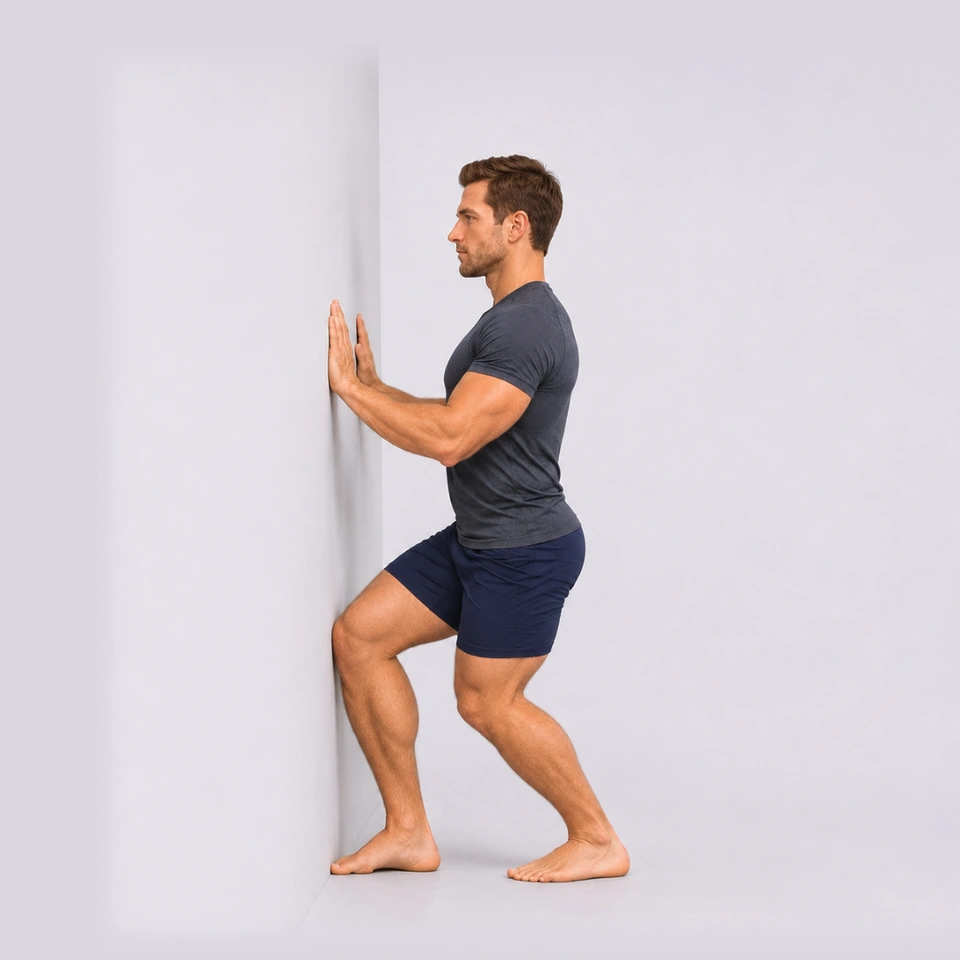
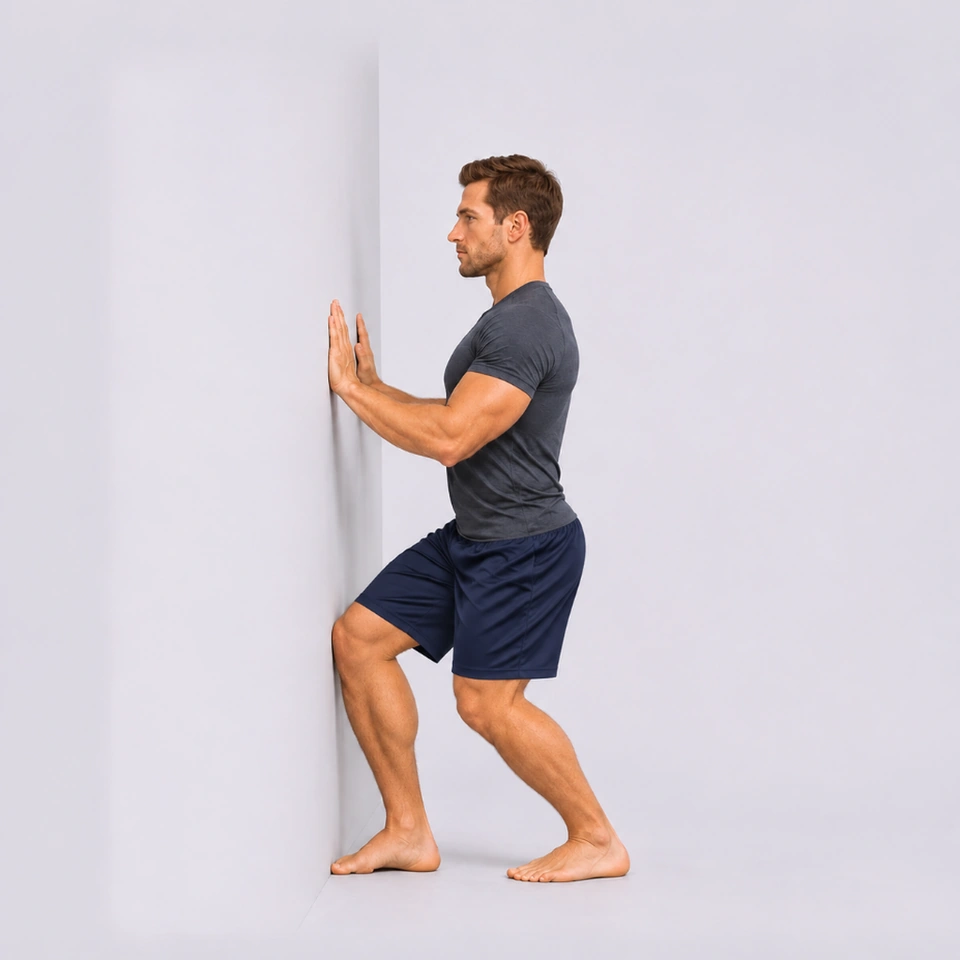
Publish: the man's longer shorts, batch 1 (10 pictures, offline version 0d8c510874da)
Claude-Session: https://claude.ai/code/session_01VNuq4d9RwdVpz2hhqNG4nu

Changed region(s): [[0.375, 0.5312, 0.625, 0.75], [0.4375, 0.5312, 0.4688, 0.5625]]

diff --git a/meflex-site/meflex-site/sw.js b/meflex-site/meflex-site/sw.js
@@ -5,7 +5,7 @@
 // those go to the network exactly as without it. It sends nothing of its own except fetching FILES from the site.
 // It never stores personal data: history, routines, settings and answers live in the page's own storage, not here.
 // A new version waits until the person taps Reload ("A new version is ready"); it never takes over by itself.
-const VERSION = '1d963bf63757';
+const VERSION = '0d8c510874da';
 const FILES = ["index.html", "manifest.webmanifest", "apple-touch-icon.png", "icon-192.png", "icon-512.png"];
 // Nov 15 (recorded voice on the website): every recording the page may ask for (voice/manifest.json and voice/<key>.m4a).
 // None is fetched at install (4.2 MB). Each is kept the first time the page fetches it: the list when the Voice or coach
@@ -15,7 +15,7 @@ const VOICE = ["voice/manifest.json", "voice/001278fc.m4a", "voice/0012bbdf.m4a"
 // fetched at install (that could be many megabytes). Each one is kept the first time the page shows it, and the page
 // asks for a routine's player pictures when that routine is opened, so a routine started with a signal still has them
 // with none. They live in their own cache, which survives app updates; only pictures no longer listed are removed.
-const PICS = ["figures/ankledf-192.webp?v=2fbe904b", "figures/ankledf-640.webp?v=2fbe904b", "figures/ankledf-960.webp?v=2fbe904b", "figures/anklerock-192.webp?v=cd11ad1b", "figures/anklerock-640.webp?v=cd11ad1b", "figures/anklerock-960.webp?v=cd11ad1b", "figures/armcircles-192.webp?v=4655a5b3", "figures/armcircles-640.webp?v=4655a5b3", "figures/armcircles-960.webp?v=4655a5b3", "figures/bandadd-192.webp?v=7cb4ad47", "figures/bandadd-640.webp?v=7cb4ad47", "figures/bandadd-960.webp?v=7cb4ad47", "figures/bandcalf-192.webp?v=a96d5053", "figures/bandcalf-640.webp?v=a96d5053", "figures/bandcalf-960.webp?v=a96d5053", "figures/bandchest-192.webp?v=093ec867", "figures/bandchest-640.webp?v=093ec867", "figures/bandchest-960.webp?v=093ec867", "figures/bandcross-192.webp?v=690bf78d", "figures/bandcross-640.webp?v=690bf78d", "figures/bandcross-960.webp?v=690bf78d", "figures/bandham-192.webp?v=cc7fd8df", "figures/bandham-640.webp?v=cc7fd8df", "figures/bandham-960.webp?v=cc7fd8df", "figures/bandlat-192.webp?v=af0c8982", "figures/bandlat-640.webp?v=af0c8982", "figures/bandlat-960.webp?v=af0c8982", "figures/bandquad-192.webp?v=407bae69", "figures/bandquad-640.webp?v=407bae69", "figures/bandquad-960.webp?v=407bae69", "figures/butterfly-192.webp?v=ed941436", "figures/butterfly-640.webp?v=ed941436", "figures/butterfly-960.webp?v=ed941436", "figures/buttkicks-192.webp?v=08e6effa", "figures/buttkicks-640.webp?v=08e6effa", "figures/buttkicks-960.webp?v=08e6effa", "figures/calf-192.webp?v=0a14d5c0", "figures/calf-640.webp?v=0a14d5c0", "figures/calf-960.webp?v=0a14d5c0", "figures/calfdrop-192.webp?v=97c87646", "figures/calfdrop-640.webp?v=97c87646", "figures/calfdrop-960.webp?v=97c87646", "figures/catcow-192.webp?v=0cbc84a2", "figures/catcow-640.webp?v=0cbc84a2", "figures/catcow-960.webp?v=0cbc84a2", "figures/chairfig4-192.webp?v=3156b617", "figures/chairfig4-640.webp?v=3156b617", "figures/chairfig4-960.webp?v=3156b617", "figures/chairham-192.webp?v=79f2fa67", "figures/chairham-640.webp?v=79f2fa67", "figures/chairham-960.webp?v=79f2fa67", "figures/chestclasp-192.webp?v=1909fb8b", "figures/chestclasp-640.webp?v=1909fb8b", "figures/chestclasp-960.webp?v=1909fb8b", "figures/child-192.webp?v=e30eb409", "figures/child-640.webp?v=e30eb409", "figures/child-960.webp?v=e30eb409", "figures/chintuck-192.webp?v=a55b103f", "figures/chintuck-640.webp?v=a55b103f", "figures/chintuck-960.webp?v=a55b103f", "figures/cobra-192.webp?v=3b105fed", "figures/cobra-640.webp?v=3b105fed", "figures/cobra-960.webp?v=3b105fed", "figures/cossack-192.webp?v=711ddeef", "figures/cossack-640.webp?v=711ddeef", "figures/cossack-960.webp?v=711ddeef", "figures/couch-192.webp?v=45f44fa8", "figures/couch-640.webp?v=45f44fa8", "figures/couch-960.webp?v=45f44fa8", "figures/crossbody-192.webp?v=5f496ae8", "figures/crossbody-640.webp?v=5f496ae8", "figures/crossbody-960.webp?v=5f496ae8", "figures/dbfly-192.webp?v=10563170", "figures/dbfly-640.webp?v=10563170", "figures/dbfly-960.webp?v=10563170", "figures/doorway-192.webp?v=d289783c", "figures/doorway-640.webp?v=d289783c", "figures/doorway-960.webp?v=d289783c", "figures/downdog-192.webp?v=3109fa5a", "figures/downdog-640.webp?v=3109fa5a", "figures/downdog-960.webp?v=3109fa5a", "figures/figure4-192.webp?v=75c67c42", "figures/figure4-640.webp?v=75c67c42", "figures/figure4-960.webp?v=75c67c42", "figures/fold-192.webp?v=9a4d92d0", "figures/fold-640.webp?v=9a4d92d0", "figures/fold-960.webp?v=9a4d92d0", "figures/frog-192.webp?v=bf22872d", "figures/frog-640.webp?v=bf22872d", "figures/frog-960.webp?v=bf22872d", "figures/gate-192.webp?v=dd91927a", "figures/gate-640.webp?v=dd91927a", "figures/gate-960.webp?v=dd91927a", "figures/goblet-192.webp?v=47dedac9", "figures/goblet-640.webp?v=47dedac9", "figures/goblet-960.webp?v=47dedac9", "figures/groinhold-192.webp?v=d1287163", "figures/groinhold-640.webp?v=d1287163", "figures/groinhold-960.webp?v=d1287163", "figures/halfsplit-192.webp?v=f27b0572", "figures/halfsplit-640.webp?v=f27b0572", "figures/halfsplit-960.webp?v=f27b0572", "figures/happybaby-192.webp?v=d1ab1006", "figures/happybaby-640.webp?v=d1ab1006", "figures/happybaby-960.webp?v=d1ab1006", "figures/highknees-192.webp?v=a209c5df", "figures/highknees-640.webp?v=a209c5df", "figures/highknees-960.webp?v=a209c5df", "figures/hiplunge-192.webp?v=2f89a04e", "figures/hiplunge-640.webp?v=2f89a04e", "figures/hiplunge-960.webp?v=2f89a04e", "figures/inchworm-192.webp?v=344036cf", "figures/inchworm-640.webp?v=344036cf", "figures/inchworm-960.webp?v=344036cf", "figures/kneeschest-192.webp?v=b5d6dc38", "figures/kneeschest-640.webp?v=b5d6dc38", "figures/kneeschest-960.webp?v=b5d6dc38", "figures/lateral-192.webp?v=25f04159", "figures/lateral-640.webp?v=25f04159", "figures/lateral-960.webp?v=25f04159", "figures/legswing-192.webp?v=65e67a84", "figures/legswing-640.webp?v=65e67a84", "figures/legswing-960.webp?v=65e67a84", "figures/levator-192.webp?v=8760091f", "figures/levator-640.webp?v=8760091f", "figures/levator-960.webp?v=8760091f", "figures/lizard-192.webp?v=8d0d0fd1", "figures/lizard-640.webp?v=8d0d0fd1", "figures/lizard-960.webp?v=8d0d0fd1", "figures/lunge-192.webp?v=25293428", "figures/lunge-640.webp?v=25293428", "figures/lunge-960.webp?v=25293428", "figures/lyingham-192.webp?v=1cb729bc", "figures/lyingham-640.webp?v=1cb729bc", "figures/lyingham-960.webp?v=1cb729bc", "figures/necktilt-192.webp?v=6dc8f687", "figures/necktilt-640.webp?v=6dc8f687", "figures/necktilt-960.webp?v=6dc8f687", "figures/neckturn-192.webp?v=50a8b26d", "figures/neckturn-640.webp?v=50a8b26d", "figures/neckturn-960.webp?v=50a8b26d", "figures/passthrough-192.webp?v=ed8b9ed1", "figures/passthrough-640.webp?v=ed8b9ed1", "figures/passthrough-960.webp?v=ed8b9ed1", "figures/pigeon-192.webp?v=b20192ee", "figures/pigeon-640.webp?v=b20192ee", "figures/pigeon-960.webp?v=b20192ee", "figures/postwall-192.webp?v=ad875854", "figures/postwall-640.webp?v=ad875854", "figures/postwall-960.webp?v=ad875854", "figures/pullover-192.webp?v=e8820e95", "figures/pullover-640.webp?v=e8820e95", "figures/pullover-960.webp?v=e8820e95", "figures/puppy-192.webp?v=8e5dd34e", "figures/puppy-640.webp?v=8e5dd34e", "figures/puppy-960.webp?v=8e5dd34e", "figures/quad-192.webp?v=6250f0f8", "figures/quad-640.webp?v=6250f0f8", "figures/quad-960.webp?v=6250f0f8", "figures/rdlhold-192.webp?v=147b3bbf", "figures/rdlhold-640.webp?v=147b3bbf", "figures/rdlhold-960.webp?v=147b3bbf", "figures/seatedtwist-192.webp?v=c94f4c98", "figures/seatedtwist-640.webp?v=c94f4c98", "figures/seatedtwist-960.webp?v=c94f4c98", "figures/sidebend-192.webp?v=610313c9", "figures/sidebend-640.webp?v=610313c9", "figures/sidebend-960.webp?v=610313c9", "figures/sidequad-192.webp?v=c3d587b5", "figures/sidequad-640.webp?v=c3d587b5", "figures/sidequad-960.webp?v=c3d587b5", "figures/sideswing-192.webp?v=9d98492e", "figures/sideswing-640.webp?v=9d98492e", "figures/sideswing-960.webp?v=9d98492e", "figures/skatestance-192.webp?v=6f9565a9", "figures/skatestance-640.webp?v=6f9565a9", "figures/skatestance-960.webp?v=6f9565a9", "figures/sphinx-192.webp?v=8349a4d2", "figures/sphinx-640.webp?v=8349a4d2", "figures/sphinx-960.webp?v=8349a4d2", "figures/standfold-192.webp?v=d3455a11", "figures/standfold-640.webp?v=d3455a11", "figures/standfold-960.webp?v=d3455a11", "figures/suitcase-192.webp?v=faeb34cb", "figures/suitcase-640.webp?v=faeb34cb", "figures/suitcase-960.webp?v=faeb34cb", "figures/thread-192.webp?v=04dc8a99", "figures/thread-640.webp?v=04dc8a99", "figures/thread-960.webp?v=04dc8a99", "figures/torsotwist-192.webp?v=815f4fc0", "figures/torsotwist-640.webp?v=815f4fc0", "figures/torsotwist-960.webp?v=815f4fc0", "figures/twist-192.webp?v=183f0d8f", "figures/twist-640.webp?v=183f0d8f", "figures/twist-960.webp?v=183f0d8f", "figures/w-ankledf-192.webp?v=f0af4e86", "figures/w-ankledf-640.webp?v=f0af4e86", "figures/w-ankledf-960.webp?v=f0af4e86", "figures/w-anklerock-192.webp?v=bec78cbe", "figures/w-anklerock-640.webp?v=bec78cbe", "figures/w-anklerock-960.webp?v=bec78cbe", "figures/w-armcircles-192.webp?v=20e1b17d", "figures/w-armcircles-640.webp?v=20e1b17d", "figures/w-armcircles-960.webp?v=20e1b17d", "figures/w-bandadd-192.webp?v=37af3562", "figures/w-bandadd-640.webp?v=37af3562", "figures/w-bandadd-960.webp?v=37af3562", "figures/w-bandcalf-192.webp?v=a7ca095b", "figures/w-bandcalf-640.webp?v=a7ca095b", "figures/w-bandcalf-960.webp?v=a7ca095b", "figures/w-bandchest-192.webp?v=b4c47cae", "figures/w-bandchest-640.webp?v=b4c47cae", "figures/w-bandchest-960.webp?v=b4c47cae", "figures/w-bandcross-192.webp?v=0378abb0", "figures/w-bandcross-640.webp?v=0378abb0", "figures/w-bandcross-960.webp?v=0378abb0", "figures/w-bandham-192.webp?v=69ea0463", "figures/w-bandham-640.webp?v=69ea0463", "figures/w-bandham-960.webp?v=69ea0463", "figures/w-bandlat-192.webp?v=32398a04", "figures/w-bandlat-640.webp?v=32398a04", "figures/w-bandlat-960.webp?v=32398a04", "figures/w-bandquad-192.webp?v=55222718", "figures/w-bandquad-640.webp?v=55222718", "figures/w-bandquad-960.webp?v=55222718", "figures/w-butterfly-192.webp?v=3771c93c", "figures/w-butterfly-640.webp?v=3771c93c", "figures/w-butterfly-960.webp?v=3771c93c", "figures/w-buttkicks-192.webp?v=002ca8e3", "figures/w-buttkicks-640.webp?v=002ca8e3", "figures/w-buttkicks-960.webp?v=002ca8e3", "figures/w-calf-192.webp?v=bf30e4cb", "figures/w-calf-640.webp?v=bf30e4cb", "figures/w-calf-960.webp?v=bf30e4cb", "figures/w-calfdrop-192.webp?v=f9c8a021", "figures/w-calfdrop-640.webp?v=f9c8a021", "figures/w-calfdrop-960.webp?v=f9c8a021", "figures/w-catcow-192.webp?v=0d9bf87a", "figures/w-catcow-640.webp?v=0d9bf87a", "figures/w-catcow-960.webp?v=0d9bf87a", "figures/w-chairfig4-192.webp?v=e9703627", "figures/w-chairfig4-640.webp?v=e9703627", "figures/w-chairfig4-960.webp?v=e9703627", "figures/w-chairham-192.webp?v=600c5e2c", "figures/w-chairham-640.webp?v=600c5e2c", "figures/w-chairham-960.webp?v=600c5e2c", "figures/w-chestclasp-192.webp?v=4af09d9a", "figures/w-chestclasp-640.webp?v=4af09d9a", "figures/w-chestclasp-960.webp?v=4af09d9a", "figures/w-child-192.webp?v=855e0673", "figures/w-child-640.webp?v=855e0673", "figures/w-child-960.webp?v=855e0673", "figures/w-chintuck-192.webp?v=8f234c93", "figures/w-chintuck-640.webp?v=8f234c93", "figures/w-chintuck-960.webp?v=8f234c93", "figures/w-cobra-192.webp?v=7be58832", "figures/w-cobra-640.webp?v=7be58832", "figures/w-cobra-960.webp?v=7be58832", "figures/w-cossack-192.webp?v=beada11e", "figures/w-cossack-640.webp?v=beada11e", "figures/w-cossack-960.webp?v=beada11e", "figures/w-couch-192.webp?v=6c2f0b9c", "figures/w-couch-640.webp?v=6c2f0b9c", "figures/w-couch-960.webp?v=6c2f0b9c", "figures/w-crossbody-192.webp?v=d6de1afc", "figures/w-crossbody-640.webp?v=d6de1afc", "figures/w-crossbody-960.webp?v=d6de1afc", "figures/w-dbfly-192.webp?v=ac888e12", "figures/w-dbfly-640.webp?v=ac888e12", "figures/w-dbfly-960.webp?v=ac888e12", "figures/w-doorway-192.webp?v=99234351", "figures/w-doorway-640.webp?v=99234351", "figures/w-doorway-960.webp?v=99234351", "figures/w-downdog-192.webp?v=1d1f8be1", "figures/w-downdog-640.webp?v=1d1f8be1", "figures/w-downdog-960.webp?v=1d1f8be1", "figures/w-figure4-192.webp?v=afebc674", "figures/w-figure4-640.webp?v=afebc674", "figures/w-figure4-960.webp?v=afebc674", "figures/w-fold-192.webp?v=656f481f", "figures/w-fold-640.webp?v=656f481f", "figures/w-fold-960.webp?v=656f481f", "figures/w-frog-192.webp?v=f451a50e", "figures/w-frog-640.webp?v=f451a50e", "figures/w-frog-960.webp?v=f451a50e", "figures/w-gate-192.webp?v=549ddd89", "figures/w-gate-640.webp?v=549ddd89", "figures/w-gate-960.webp?v=549ddd89", "figures/w-goblet-192.webp?v=537b4583", "figures/w-goblet-640.webp?v=537b4583", "figures/w-goblet-960.webp?v=537b4583", "figures/w-groinhold-192.webp?v=9df46b9d", "figures/w-groinhold-640.webp?v=9df46b9d", "figures/w-groinhold-960.webp?v=9df46b9d", "figures/w-halfsplit-192.webp?v=20662c61", "figures/w-halfsplit-640.webp?v=20662c61", "figures/w-halfsplit-960.webp?v=20662c61", "figures/w-happybaby-192.webp?v=0658ab32", "figures/w-happybaby-640.webp?v=0658ab32", "figures/w-happybaby-960.webp?v=0658ab32", "figures/w-highknees-192.webp?v=bdc00bbb", "figures/w-highknees-640.webp?v=bdc00bbb", "figures/w-highknees-960.webp?v=bdc00bbb", "figures/w-hiplunge-192.webp?v=c917d115", "figures/w-hiplunge-640.webp?v=c917d115", "figures/w-hiplunge-960.webp?v=c917d115", "figures/w-inchworm-192.webp?v=577c28df", "figures/w-inchworm-640.webp?v=577c28df", "figures/w-inchworm-960.webp?v=577c28df", "figures/w-kneeschest-192.webp?v=743a6dfa", "figures/w-kneeschest-640.webp?v=743a6dfa", "figures/w-kneeschest-960.webp?v=743a6dfa", "figures/w-lateral-192.webp?v=3cb2a7d3", "figures/w-lateral-640.webp?v=3cb2a7d3", "figures/w-lateral-960.webp?v=3cb2a7d3", "figures/w-legswing-192.webp?v=fcf623c6", "figures/w-legswing-640.webp?v=fcf623c6", "figures/w-legswing-960.webp?v=fcf623c6", "figures/w-levator-192.webp?v=d166c57a", "figures/w-levator-640.webp?v=d166c57a", "figures/w-levator-960.webp?v=d166c57a", "figures/w-lizard-192.webp?v=7cc08ab2", "figures/w-lizard-640.webp?v=7cc08ab2", "figures/w-lizard-960.webp?v=7cc08ab2", "figures/w-lunge-192.webp?v=63866dc2", "figures/w-lunge-640.webp?v=63866dc2", "figures/w-lunge-960.webp?v=63866dc2", "figures/w-lyingham-192.webp?v=fe759cfe", "figures/w-lyingham-640.webp?v=fe759cfe", "figures/w-lyingham-960.webp?v=fe759cfe", "figures/w-necktilt-192.webp?v=22924b2f", "figures/w-necktilt-640.webp?v=22924b2f", "figures/w-necktilt-960.webp?v=22924b2f", "figures/w-neckturn-192.webp?v=5af43185", "figures/w-neckturn-640.webp?v=5af43185", "figures/w-neckturn-960.webp?v=5af43185", "figures/w-passthrough-192.webp?v=10bfce31", "figures/w-passthrough-640.webp?v=10bfce31", "figures/w-passthrough-960.webp?v=10bfce31", "figures/w-pigeon-192.webp?v=a89b8f65", "figures/w-pigeon-640.webp?v=a89b8f65", "figures/w-pigeon-960.webp?v=a89b8f65", "figures/w-postwall-192.webp?v=b8e7a79c", "figures/w-postwall-640.webp?v=b8e7a79c", "figures/w-postwall-960.webp?v=b8e7a79c", "figures/w-pullover-192.webp?v=15239280", "figures/w-pullover-640.webp?v=15239280", "figures/w-pullover-960.webp?v=15239280", "figures/w-puppy-192.webp?v=058ca523", "figures/w-puppy-640.webp?v=058ca523", "figures/w-puppy-960.webp?v=058ca523", "figures/w-quad-192.webp?v=1b58687d", "figures/w-quad-640.webp?v=1b58687d", "figures/w-quad-960.webp?v=1b58687d", "figures/w-rdlhold-192.webp?v=06b1b1c0", "figures/w-rdlhold-640.webp?v=06b1b1c0", "figures/w-rdlhold-960.webp?v=06b1b1c0", "figures/w-seatedtwist-192.webp?v=09e1504d", "figures/w-seatedtwist-640.webp?v=09e1504d", "figures/w-seatedtwist-960.webp?v=09e1504d", "figures/w-sidebend-192.webp?v=6f735ad6", "figures/w-sidebend-640.webp?v=6f735ad6", "figures/w-sidebend-960.webp?v=6f735ad6", "figures/w-sidequad-192.webp?v=5a2dfb1a", "figures/w-sidequad-640.webp?v=5a2dfb1a", "figures/w-sidequad-960.webp?v=5a2dfb1a", "figures/w-sideswing-192.webp?v=484561d0", "figures/w-sideswing-640.webp?v=484561d0", "figures/w-sideswing-960.webp?v=484561d0", "figures/w-skatestance-192.webp?v=82716257", "figures/w-skatestance-640.webp?v=82716257", "figures/w-skatestance-960.webp?v=82716257", "figures/w-sphinx-192.webp?v=4fdcb7fe", "figures/w-sphinx-640.webp?v=4fdcb7fe", "figures/w-sphinx-960.webp?v=4fdcb7fe", "figures/w-standfold-192.webp?v=b34553d0", "figures/w-standfold-640.webp?v=b34553d0", "figures/w-standfold-960.webp?v=b34553d0", "figures/w-suitcase-192.webp?v=45e68e4c", "figures/w-suitcase-640.webp?v=45e68e4c", "figures/w-suitcase-960.webp?v=45e68e4c", "figures/w-thread-192.webp?v=d2486033", "figures/w-thread-640.webp?v=d2486033", "figures/w-thread-960.webp?v=d2486033", "figures/w-torsotwist-192.webp?v=890d2d43", "figures/w-torsotwist-640.webp?v=890d2d43", "figures/w-torsotwist-960.webp?v=890d2d43", "figures/w-twist-192.webp?v=f2c23353", "figures/w-twist-640.webp?v=f2c23353", "figures/w-twist-960.webp?v=f2c23353", "figures/w-walklunge-192.webp?v=7d9e101b", "figures/w-walklunge-640.webp?v=7d9e101b", "figures/w-walklunge-960.webp?v=7d9e101b", "figures/walklunge-192.webp?v=cb874fd0", "figures/walklunge-640.webp?v=cb874fd0", "figures/walklunge-960.webp?v=cb874fd0", "figures/hiplunge-loop.mp4?v=3236b681", "figures/lateral-loop.mp4?v=4dd7ccbd", "figures/lunge-loop.mp4?v=5fb29044", "figures/quad-loop.mp4?v=55eefc3f", "figures/w-lunge-loop.mp4?v=39ee6efd", "figures/w-quad-loop.mp4?v=70738fff"];
+const PICS = ["figures/ankledf-192.webp?v=a8f33b0e", "figures/ankledf-640.webp?v=a8f33b0e", "figures/ankledf-960.webp?v=a8f33b0e", "figures/anklerock-192.webp?v=911c5049", "figures/anklerock-640.webp?v=911c5049", "figures/anklerock-960.webp?v=911c5049", "figures/armcircles-192.webp?v=41b57d91", "figures/armcircles-640.webp?v=41b57d91", "figures/armcircles-960.webp?v=41b57d91", "figures/bandadd-192.webp?v=7cb4ad47", "figures/bandadd-640.webp?v=7cb4ad47", "figures/bandadd-960.webp?v=7cb4ad47", "figures/bandcalf-192.webp?v=a96d5053", "figures/bandcalf-640.webp?v=a96d5053", "figures/bandcalf-960.webp?v=a96d5053", "figures/bandchest-192.webp?v=093ec867", "figures/bandchest-640.webp?v=093ec867", "figures/bandchest-960.webp?v=093ec867", "figures/bandcross-192.webp?v=690bf78d", "figures/bandcross-640.webp?v=690bf78d", "figures/bandcross-960.webp?v=690bf78d", "figures/bandham-192.webp?v=cc7fd8df", "figures/bandham-640.webp?v=cc7fd8df", "figures/bandham-960.webp?v=cc7fd8df", "figures/bandlat-192.webp?v=af0c8982", "figures/bandlat-640.webp?v=af0c8982", "figures/bandlat-960.webp?v=af0c8982", "figures/bandquad-192.webp?v=407bae69", "figures/bandquad-640.webp?v=407bae69", "figures/bandquad-960.webp?v=407bae69", "figures/butterfly-192.webp?v=ed941436", "figures/butterfly-640.webp?v=ed941436", "figures/butterfly-960.webp?v=ed941436", "figures/buttkicks-192.webp?v=a66d1809", "figures/buttkicks-640.webp?v=a66d1809", "figures/buttkicks-960.webp?v=a66d1809", "figures/calf-192.webp?v=0a14d5c0", "figures/calf-640.webp?v=0a14d5c0", "figures/calf-960.webp?v=0a14d5c0", "figures/calfdrop-192.webp?v=97c87646", "figures/calfdrop-640.webp?v=97c87646", "figures/calfdrop-960.webp?v=97c87646", "figures/catcow-192.webp?v=0cbc84a2", "figures/catcow-640.webp?v=0cbc84a2", "figures/catcow-960.webp?v=0cbc84a2", "figures/chairfig4-192.webp?v=3156b617", "figures/chairfig4-640.webp?v=3156b617", "figures/chairfig4-960.webp?v=3156b617", "figures/chairham-192.webp?v=79f2fa67", "figures/chairham-640.webp?v=79f2fa67", "figures/chairham-960.webp?v=79f2fa67", "figures/chestclasp-192.webp?v=1909fb8b", "figures/chestclasp-640.webp?v=1909fb8b", "figures/chestclasp-960.webp?v=1909fb8b", "figures/child-192.webp?v=e30eb409", "figures/child-640.webp?v=e30eb409", "figures/child-960.webp?v=e30eb409", "figures/chintuck-192.webp?v=a55b103f", "figures/chintuck-640.webp?v=a55b103f", "figures/chintuck-960.webp?v=a55b103f", "figures/cobra-192.webp?v=3b105fed", "figures/cobra-640.webp?v=3b105fed", "figures/cobra-960.webp?v=3b105fed", "figures/cossack-192.webp?v=711ddeef", "figures/cossack-640.webp?v=711ddeef", "figures/cossack-960.webp?v=711ddeef", "figures/couch-192.webp?v=45f44fa8", "figures/couch-640.webp?v=45f44fa8", "figures/couch-960.webp?v=45f44fa8", "figures/crossbody-192.webp?v=5f496ae8", "figures/crossbody-640.webp?v=5f496ae8", "figures/crossbody-960.webp?v=5f496ae8", "figures/dbfly-192.webp?v=10563170", "figures/dbfly-640.webp?v=10563170", "figures/dbfly-960.webp?v=10563170", "figures/doorway-192.webp?v=d289783c", "figures/doorway-640.webp?v=d289783c", "figures/doorway-960.webp?v=d289783c", "figures/downdog-192.webp?v=3109fa5a", "figures/downdog-640.webp?v=3109fa5a", "figures/downdog-960.webp?v=3109fa5a", "figures/figure4-192.webp?v=75c67c42", "figures/figure4-640.webp?v=75c67c42", "figures/figure4-960.webp?v=75c67c42", "figures/fold-192.webp?v=9a4d92d0", "figures/fold-640.webp?v=9a4d92d0", "figures/fold-960.webp?v=9a4d92d0", "figures/frog-192.webp?v=bf22872d", "figures/frog-640.webp?v=bf22872d", "figures/frog-960.webp?v=bf22872d", "figures/gate-192.webp?v=dd91927a", "figures/gate-640.webp?v=dd91927a", "figures/gate-960.webp?v=dd91927a", "figures/goblet-192.webp?v=47dedac9", "figures/goblet-640.webp?v=47dedac9", "figures/goblet-960.webp?v=47dedac9", "figures/groinhold-192.webp?v=619f54f8", "figures/groinhold-640.webp?v=619f54f8", "figures/groinhold-960.webp?v=619f54f8", "figures/halfsplit-192.webp?v=f27b0572", "figures/halfsplit-640.webp?v=f27b0572", "figures/halfsplit-960.webp?v=f27b0572", "figures/happybaby-192.webp?v=d1ab1006", "figures/happybaby-640.webp?v=d1ab1006", "figures/happybaby-960.webp?v=d1ab1006", "figures/highknees-192.webp?v=dab2adce", "figures/highknees-640.webp?v=dab2adce", "figures/highknees-960.webp?v=dab2adce", "figures/hiplunge-192.webp?v=2f89a04e", "figures/hiplunge-640.webp?v=2f89a04e", "figures/hiplunge-960.webp?v=2f89a04e", "figures/inchworm-192.webp?v=344036cf", "figures/inchworm-640.webp?v=344036cf", "figures/inchworm-960.webp?v=344036cf", "figures/kneeschest-192.webp?v=b5d6dc38", "figures/kneeschest-640.webp?v=b5d6dc38", "figures/kneeschest-960.webp?v=b5d6dc38", "figures/lateral-192.webp?v=25f04159", "figures/lateral-640.webp?v=25f04159", "figures/lateral-960.webp?v=25f04159", "figures/legswing-192.webp?v=d141c625", "figures/legswing-640.webp?v=d141c625", "figures/legswing-960.webp?v=d141c625", "figures/levator-192.webp?v=8760091f", "figures/levator-640.webp?v=8760091f", "figures/levator-960.webp?v=8760091f", "figures/lizard-192.webp?v=8d0d0fd1", "figures/lizard-640.webp?v=8d0d0fd1", "figures/lizard-960.webp?v=8d0d0fd1", "figures/lunge-192.webp?v=25293428", "figures/lunge-640.webp?v=25293428", "figures/lunge-960.webp?v=25293428", "figures/lyingham-192.webp?v=1cb729bc", "figures/lyingham-640.webp?v=1cb729bc", "figures/lyingham-960.webp?v=1cb729bc", "figures/necktilt-192.webp?v=6dc8f687", "figures/necktilt-640.webp?v=6dc8f687", "figures/necktilt-960.webp?v=6dc8f687", "figures/neckturn-192.webp?v=50a8b26d", "figures/neckturn-640.webp?v=50a8b26d", "figures/neckturn-960.webp?v=50a8b26d", "figures/passthrough-192.webp?v=ed8b9ed1", "figures/passthrough-640.webp?v=ed8b9ed1", "figures/passthrough-960.webp?v=ed8b9ed1", "figures/pigeon-192.webp?v=b20192ee", "figures/pigeon-640.webp?v=b20192ee", "figures/pigeon-960.webp?v=b20192ee", "figures/postwall-192.webp?v=ad875854", "figures/postwall-640.webp?v=ad875854", "figures/postwall-960.webp?v=ad875854", "figures/pullover-192.webp?v=e8820e95", "figures/pullover-640.webp?v=e8820e95", "figures/pullover-960.webp?v=e8820e95", "figures/puppy-192.webp?v=8e5dd34e", "figures/puppy-640.webp?v=8e5dd34e", "figures/puppy-960.webp?v=8e5dd34e", "figures/quad-192.webp?v=6250f0f8", "figures/quad-640.webp?v=6250f0f8", "figures/quad-960.webp?v=6250f0f8", "figures/rdlhold-192.webp?v=147b3bbf", "figures/rdlhold-640.webp?v=147b3bbf", "figures/rdlhold-960.webp?v=147b3bbf", "figures/seatedtwist-192.webp?v=c94f4c98", "figures/seatedtwist-640.webp?v=c94f4c98", "figures/seatedtwist-960.webp?v=c94f4c98", "figures/sidebend-192.webp?v=610313c9", "figures/sidebend-640.webp?v=610313c9", "figures/sidebend-960.webp?v=610313c9", "figures/sidequad-192.webp?v=c3d587b5", "figures/sidequad-640.webp?v=c3d587b5", "figures/sidequad-960.webp?v=c3d587b5", "figures/sideswing-192.webp?v=1ba9e48b", "figures/sideswing-640.webp?v=1ba9e48b", "figures/sideswing-960.webp?v=1ba9e48b", "figures/skatestance-192.webp?v=3e680fa9", "figures/skatestance-640.webp?v=3e680fa9", "figures/skatestance-960.webp?v=3e680fa9", "figures/sphinx-192.webp?v=8349a4d2", "figures/sphinx-640.webp?v=8349a4d2", "figures/sphinx-960.webp?v=8349a4d2", "figures/standfold-192.webp?v=d3455a11", "figures/standfold-640.webp?v=d3455a11", "figures/standfold-960.webp?v=d3455a11", "figures/suitcase-192.webp?v=faeb34cb", "figures/suitcase-640.webp?v=faeb34cb", "figures/suitcase-960.webp?v=faeb34cb", "figures/thread-192.webp?v=04dc8a99", "figures/thread-640.webp?v=04dc8a99", "figures/thread-960.webp?v=04dc8a99", "figures/torsotwist-192.webp?v=81bb2d2f", "figures/torsotwist-640.webp?v=81bb2d2f", "figures/torsotwist-960.webp?v=81bb2d2f", "figures/twist-192.webp?v=183f0d8f", "figures/twist-640.webp?v=183f0d8f", "figures/twist-960.webp?v=183f0d8f", "figures/w-ankledf-192.webp?v=f0af4e86", "figures/w-ankledf-640.webp?v=f0af4e86", "figures/w-ankledf-960.webp?v=f0af4e86", "figures/w-anklerock-192.webp?v=bec78cbe", "figures/w-anklerock-640.webp?v=bec78cbe", "figures/w-anklerock-960.webp?v=bec78cbe", "figures/w-armcircles-192.webp?v=20e1b17d", "figures/w-armcircles-640.webp?v=20e1b17d", "figures/w-armcircles-960.webp?v=20e1b17d", "figures/w-bandadd-192.webp?v=37af3562", "figures/w-bandadd-640.webp?v=37af3562", "figures/w-bandadd-960.webp?v=37af3562", "figures/w-bandcalf-192.webp?v=a7ca095b", "figures/w-bandcalf-640.webp?v=a7ca095b", "figures/w-bandcalf-960.webp?v=a7ca095b", "figures/w-bandchest-192.webp?v=b4c47cae", "figures/w-bandchest-640.webp?v=b4c47cae", "figures/w-bandchest-960.webp?v=b4c47cae", "figures/w-bandcross-192.webp?v=0378abb0", "figures/w-bandcross-640.webp?v=0378abb0", "figures/w-bandcross-960.webp?v=0378abb0", "figures/w-bandham-192.webp?v=69ea0463", "figures/w-bandham-640.webp?v=69ea0463", "figures/w-bandham-960.webp?v=69ea0463", "figures/w-bandlat-192.webp?v=32398a04", "figures/w-bandlat-640.webp?v=32398a04", "figures/w-bandlat-960.webp?v=32398a04", "figures/w-bandquad-192.webp?v=55222718", "figures/w-bandquad-640.webp?v=55222718", "figures/w-bandquad-960.webp?v=55222718", "figures/w-butterfly-192.webp?v=3771c93c", "figures/w-butterfly-640.webp?v=3771c93c", "figures/w-butterfly-960.webp?v=3771c93c", "figures/w-buttkicks-192.webp?v=002ca8e3", "figures/w-buttkicks-640.webp?v=002ca8e3", "figures/w-buttkicks-960.webp?v=002ca8e3", "figures/w-calf-192.webp?v=bf30e4cb", "figures/w-calf-640.webp?v=bf30e4cb", "figures/w-calf-960.webp?v=bf30e4cb", "figures/w-calfdrop-192.webp?v=f9c8a021", "figures/w-calfdrop-640.webp?v=f9c8a021", "figures/w-calfdrop-960.webp?v=f9c8a021", "figures/w-catcow-192.webp?v=0d9bf87a", "figures/w-catcow-640.webp?v=0d9bf87a", "figures/w-catcow-960.webp?v=0d9bf87a", "figures/w-chairfig4-192.webp?v=e9703627", "figures/w-chairfig4-640.webp?v=e9703627", "figures/w-chairfig4-960.webp?v=e9703627", "figures/w-chairham-192.webp?v=600c5e2c", "figures/w-chairham-640.webp?v=600c5e2c", "figures/w-chairham-960.webp?v=600c5e2c", "figures/w-chestclasp-192.webp?v=4af09d9a", "figures/w-chestclasp-640.webp?v=4af09d9a", "figures/w-chestclasp-960.webp?v=4af09d9a", "figures/w-child-192.webp?v=855e0673", "figures/w-child-640.webp?v=855e0673", "figures/w-child-960.webp?v=855e0673", "figures/w-chintuck-192.webp?v=8f234c93", "figures/w-chintuck-640.webp?v=8f234c93", "figures/w-chintuck-960.webp?v=8f234c93", "figures/w-cobra-192.webp?v=7be58832", "figures/w-cobra-640.webp?v=7be58832", "figures/w-cobra-960.webp?v=7be58832", "figures/w-cossack-192.webp?v=beada11e", "figures/w-cossack-640.webp?v=beada11e", "figures/w-cossack-960.webp?v=beada11e", "figures/w-couch-192.webp?v=6c2f0b9c", "figures/w-couch-640.webp?v=6c2f0b9c", "figures/w-couch-960.webp?v=6c2f0b9c", "figures/w-crossbody-192.webp?v=d6de1afc", "figures/w-crossbody-640.webp?v=d6de1afc", "figures/w-crossbody-960.webp?v=d6de1afc", "figures/w-dbfly-192.webp?v=ac888e12", "figures/w-dbfly-640.webp?v=ac888e12", "figures/w-dbfly-960.webp?v=ac888e12", "figures/w-doorway-192.webp?v=99234351", "figures/w-doorway-640.webp?v=99234351", "figures/w-doorway-960.webp?v=99234351", "figures/w-downdog-192.webp?v=1d1f8be1", "figures/w-downdog-640.webp?v=1d1f8be1", "figures/w-downdog-960.webp?v=1d1f8be1", "figures/w-figure4-192.webp?v=afebc674", "figures/w-figure4-640.webp?v=afebc674", "figures/w-figure4-960.webp?v=afebc674", "figures/w-fold-192.webp?v=656f481f", "figures/w-fold-640.webp?v=656f481f", "figures/w-fold-960.webp?v=656f481f", "figures/w-frog-192.webp?v=f451a50e", "figures/w-frog-640.webp?v=f451a50e", "figures/w-frog-960.webp?v=f451a50e", "figures/w-gate-192.webp?v=549ddd89", "figures/w-gate-640.webp?v=549ddd89", "figures/w-gate-960.webp?v=549ddd89", "figures/w-goblet-192.webp?v=537b4583", "figures/w-goblet-640.webp?v=537b4583", "figures/w-goblet-960.webp?v=537b4583", "figures/w-groinhold-192.webp?v=9df46b9d", "figures/w-groinhold-640.webp?v=9df46b9d", "figures/w-groinhold-960.webp?v=9df46b9d", "figures/w-halfsplit-192.webp?v=20662c61", "figures/w-halfsplit-640.webp?v=20662c61", "figures/w-halfsplit-960.webp?v=20662c61", "figures/w-happybaby-192.webp?v=0658ab32", "figures/w-happybaby-640.webp?v=0658ab32", "figures/w-happybaby-960.webp?v=0658ab32", "figures/w-highknees-192.webp?v=bdc00bbb", "figures/w-highknees-640.webp?v=bdc00bbb", "figures/w-highknees-960.webp?v=bdc00bbb", "figures/w-hiplunge-192.webp?v=c917d115", "figures/w-hiplunge-640.webp?v=c917d115", "figures/w-hiplunge-960.webp?v=c917d115", "figures/w-inchworm-192.webp?v=577c28df", "figures/w-inchworm-640.webp?v=577c28df", "figures/w-inchworm-960.webp?v=577c28df", "figures/w-kneeschest-192.webp?v=743a6dfa", "figures/w-kneeschest-640.webp?v=743a6dfa", "figures/w-kneeschest-960.webp?v=743a6dfa", "figures/w-lateral-192.webp?v=3cb2a7d3", "figures/w-lateral-640.webp?v=3cb2a7d3", "figures/w-lateral-960.webp?v=3cb2a7d3", "figures/w-legswing-192.webp?v=fcf623c6", "figures/w-legswing-640.webp?v=fcf623c6", "figures/w-legswing-960.webp?v=fcf623c6", "figures/w-levator-192.webp?v=d166c57a", "figures/w-levator-640.webp?v=d166c57a", "figures/w-levator-960.webp?v=d166c57a", "figures/w-lizard-192.webp?v=7cc08ab2", "figures/w-lizard-640.webp?v=7cc08ab2", "figures/w-lizard-960.webp?v=7cc08ab2", "figures/w-lunge-192.webp?v=63866dc2", "figures/w-lunge-640.webp?v=63866dc2", "figures/w-lunge-960.webp?v=63866dc2", "figures/w-lyingham-192.webp?v=fe759cfe", "figures/w-lyingham-640.webp?v=fe759cfe", "figures/w-lyingham-960.webp?v=fe759cfe", "figures/w-necktilt-192.webp?v=22924b2f", "figures/w-necktilt-640.webp?v=22924b2f", "figures/w-necktilt-960.webp?v=22924b2f", "figures/w-neckturn-192.webp?v=5af43185", "figures/w-neckturn-640.webp?v=5af43185", "figures/w-neckturn-960.webp?v=5af43185", "figures/w-passthrough-192.webp?v=10bfce31", "figures/w-passthrough-640.webp?v=10bfce31", "figures/w-passthrough-960.webp?v=10bfce31", "figures/w-pigeon-192.webp?v=a89b8f65", "figures/w-pigeon-640.webp?v=a89b8f65", "figures/w-pigeon-960.webp?v=a89b8f65", "figures/w-postwall-192.webp?v=b8e7a79c", "figures/w-postwall-640.webp?v=b8e7a79c", "figures/w-postwall-960.webp?v=b8e7a79c", "figures/w-pullover-192.webp?v=15239280", "figures/w-pullover-640.webp?v=15239280", "figures/w-pullover-960.webp?v=15239280", "figures/w-puppy-192.webp?v=058ca523", "figures/w-puppy-640.webp?v=058ca523", "figures/w-puppy-960.webp?v=058ca523", "figures/w-quad-192.webp?v=1b58687d", "figures/w-quad-640.webp?v=1b58687d", "figures/w-quad-960.webp?v=1b58687d", "figures/w-rdlhold-192.webp?v=06b1b1c0", "figures/w-rdlhold-640.webp?v=06b1b1c0", "figures/w-rdlhold-960.webp?v=06b1b1c0", "figures/w-seatedtwist-192.webp?v=09e1504d", "figures/w-seatedtwist-640.webp?v=09e1504d", "figures/w-seatedtwist-960.webp?v=09e1504d", "figures/w-sidebend-192.webp?v=6f735ad6", "figures/w-sidebend-640.webp?v=6f735ad6", "figures/w-sidebend-960.webp?v=6f735ad6", "figures/w-sidequad-192.webp?v=5a2dfb1a", "figures/w-sidequad-640.webp?v=5a2dfb1a", "figures/w-sidequad-960.webp?v=5a2dfb1a", "figures/w-sideswing-192.webp?v=484561d0", "figures/w-sideswing-640.webp?v=484561d0", "figures/w-sideswing-960.webp?v=484561d0", "figures/w-skatestance-192.webp?v=82716257", "figures/w-skatestance-640.webp?v=82716257", "figures/w-skatestance-960.webp?v=82716257", "figures/w-sphinx-192.webp?v=4fdcb7fe", "figures/w-sphinx-640.webp?v=4fdcb7fe", "figures/w-sphinx-960.webp?v=4fdcb7fe", "figures/w-standfold-192.webp?v=b34553d0", "figures/w-standfold-640.webp?v=b34553d0", "figures/w-standfold-960.webp?v=b34553d0", "figures/w-suitcase-192.webp?v=45e68e4c", "figures/w-suitcase-640.webp?v=45e68e4c", "figures/w-suitcase-960.webp?v=45e68e4c", "figures/w-thread-192.webp?v=d2486033", "figures/w-thread-640.webp?v=d2486033", "figures/w-thread-960.webp?v=d2486033", "figures/w-torsotwist-192.webp?v=890d2d43", "figures/w-torsotwist-640.webp?v=890d2d43", "figures/w-torsotwist-960.webp?v=890d2d43", "figures/w-twist-192.webp?v=f2c23353", "figures/w-twist-640.webp?v=f2c23353", "figures/w-twist-960.webp?v=f2c23353", "figures/w-walklunge-192.webp?v=7d9e101b", "figures/w-walklunge-640.webp?v=7d9e101b", "figures/w-walklunge-960.webp?v=7d9e101b", "figures/walklunge-192.webp?v=cb874fd0", "figures/walklunge-640.webp?v=cb874fd0", "figures/walklunge-960.webp?v=cb874fd0", "figures/hiplunge-loop.mp4?v=3236b681", "figures/lateral-loop.mp4?v=4dd7ccbd", "figures/lunge-loop.mp4?v=5fb29044", "figures/quad-loop.mp4?v=55eefc3f", "figures/w-lunge-loop.mp4?v=39ee6efd", "figures/w-quad-loop.mp4?v=70738fff"];
 const BASE = self.registration.scope; // the folder sw.js lives in, e.g. https://example.github.io/meflex/meflex-site/meflex-site/
 // Hardening: cache names carry a tag of this folder, so another copy of MeFlex on the same address keeps its own offline
 // files. Caches from before this change (meflex-offline-<12 hex>) are cleared once.

diff --git a/meflex-site/meflex-site/index.html b/meflex-site/meflex-site/index.html
@@ -13,7 +13,7 @@
 <link rel="icon" type="image/png" sizes="192x192" href="icon-192.png">
 <link rel="manifest" href="manifest.webmanifest">
 <meta name="meflex-sw" content="sw.js">
-<meta name="meflex-version" content="1d963bf63757">
+<meta name="meflex-version" content="0d8c510874da">
 <meta name="meflex-voice" content="voice/">
 <title>MeFlex</title>
 <meta name="claude:viewport-fit-sides" content="cover">
@@ -1550,7 +1550,7 @@ Object.entries(KID_STEPS).forEach(([id, steps]) => { const st = STRETCHES.find(s
 const SUPPORTED = ['groinhold', 'ankledf', 'postwall', 'chairfig4', 'chairham', 'seatedtwist', 'necktilt', 'levator', 'chintuck', 'neckturn', 'calf', 'doorway', 'crossbody', 'chestclasp', 'bandchest'];
 STRETCHES.forEach(s => { s.supported = SUPPORTED.includes(s.id); });
 const BY_ID = Object.fromEntries(STRETCHES.map(s => [s.id, s]));
-const PICS = {"ankledf":{"v":"2fbe904b","loop":null},"anklerock":{"v":"cd11ad1b","loop":null},"armcircles":{"v":"4655a5b3","loop":null},"bandadd":{"v":"7cb4ad47","loop":null},"bandcalf":{"v":"a96d5053","loop":null},"bandchest":{"v":"093ec867","loop":null},"bandcross":{"v":"690bf78d","loop":null},"bandham":{"v":"cc7fd8df","loop":null},"bandlat":{"v":"af0c8982","loop":null},"bandquad":{"v":"407bae69","loop":null},"butterfly":{"v":"ed941436","loop":null},"buttkicks":{"v":"08e6effa","loop":null},"calf":{"v":"0a14d5c0","loop":null},"calfdrop":{"v":"97c87646","loop":null},"catcow":{"v":"0cbc84a2","loop":null},"chairfig4":{"v":"3156b617","loop":null},"chairham":{"v":"79f2fa67","loop":null},"chestclasp":{"v":"1909fb8b","loop":null},"child":{"v":"e30eb409","loop":null},"chintuck":{"v":"a55b103f","loop":null},"cobra":{"v":"3b105fed","loop":null},"cossack":{"v":"711ddeef","loop":null},"couch":{"v":"45f44fa8","loop":null},"crossbody":{"v":"5f496ae8","loop":null},"dbfly":{"v":"10563170","loop":null},"doorway":{"v":"d289783c","loop":null},"downdog":{"v":"3109fa5a","loop":null},"figure4":{"v":"75c67c42","loop":null},"fold":{"v":"9a4d92d0","loop":null},"frog":{"v":"bf22872d","loop":null},"gate":{"v":"dd91927a","loop":null},"goblet":{"v":"47dedac9","loop":null},"groinhold":{"v":"d1287163","loop":null},"halfsplit":{"v":"f27b0572","loop":null},"happybaby":{"v":"d1ab1006","loop":null},"highknees":{"v":"a209c5df","loop":null},"hiplunge":{"v":"2f89a04e","loop":"3236b681"},"inchworm":{"v":"344036cf","loop":null},"kneeschest":{"v":"b5d6dc38","loop":null},"lateral":{"v":"25f04159","loop":"4dd7ccbd"},"legswing":{"v":"65e67a84","loop":null},"levator":{"v":"8760091f","loop":null},"lizard":{"v":"8d0d0fd1","loop":null},"lunge":{"v":"25293428","loop":"5fb29044"},"lyingham":{"v":"1cb729bc","loop":null},"necktilt":{"v":"6dc8f687","loop":null},"neckturn":{"v":"50a8b26d","loop":null},"passthrough":{"v":"ed8b9ed1","loop":null},"pigeon":{"v":"b20192ee","loop":null},"postwall":{"v":"ad875854","loop":null},"pullover":{"v":"e8820e95","loop":null},"puppy":{"v":"8e5dd34e","loop":null},"quad":{"v":"6250f0f8","loop":"55eefc3f"},"rdlhold":{"v":"147b3bbf","loop":null},"seatedtwist":{"v":"c94f4c98","loop":null},"sidebend":{"v":"610313c9","loop":null},"sidequad":{"v":"c3d587b5","loop":null},"sideswing":{"v":"9d98492e","loop":null},"skatestance":{"v":"6f9565a9","loop":null},"sphinx":{"v":"8349a4d2","loop":null},"standfold":{"v":"d3455a11","loop":null},"suitcase":{"v":"faeb34cb","loop":null},"thread":{"v":"04dc8a99","loop":null},"torsotwist":{"v":"815f4fc0","loop":null},"twist":{"v":"183f0d8f","loop":null},"w-ankledf":{"v":"f0af4e86","loop":null},"w-anklerock":{"v":"bec78cbe","loop":null},"w-armcircles":{"v":"20e1b17d","loop":null},"w-bandadd":{"v":"37af3562","loop":null},"w-bandcalf":{"v":"a7ca095b","loop":null},"w-bandchest":{"v":"b4c47cae","loop":null},"w-bandcross":{"v":"0378abb0","loop":null},"w-bandham":{"v":"69ea0463","loop":null},"w-bandlat":{"v":"32398a04","loop":null},"w-bandquad":{"v":"55222718","loop":null},"w-butterfly":{"v":"3771c93c","loop":null},"w-buttkicks":{"v":"002ca8e3","loop":null},"w-calf":{"v":"bf30e4cb","loop":null},"w-calfdrop":{"v":"f9c8a021","loop":null},"w-catcow":{"v":"0d9bf87a","loop":null},"w-chairfig4":{"v":"e9703627","loop":null},"w-chairham":{"v":"600c5e2c","loop":null},"w-chestclasp":{"v":"4af09d9a","loop":null},"w-child":{"v":"855e0673","loop":null},"w-chintuck":{"v":"8f234c93","loop":null},"w-cobra":{"v":"7be58832","loop":null},"w-cossack":{"v":"beada11e","loop":null},"w-couch":{"v":"6c2f0b9c","loop":null},"w-crossbody":{"v":"d6de1afc","loop":null},"w-dbfly":{"v":"ac888e12","loop":null},"w-doorway":{"v":"99234351","loop":null},"w-downdog":{"v":"1d1f8be1","loop":null},"w-figure4":{"v":"afebc674","loop":null},"w-fold":{"v":"656f481f","loop":null},"w-frog":{"v":"f451a50e","loop":null},"w-gate":{"v":"549ddd89","loop":null},"w-goblet":{"v":"537b4583","loop":null},"w-groinhold":{"v":"9df46b9d","loop":null},"w-halfsplit":{"v":"20662c61","loop":null},"w-happybaby":{"v":"0658ab32","loop":null},"w-highknees":{"v":"bdc00bbb","loop":null},"w-hiplunge":{"v":"c917d115","loop":null},"w-inchworm":{"v":"577c28df","loop":null},"w-kneeschest":{"v":"743a6dfa","loop":null},"w-lateral":{"v":"3cb2a7d3","loop":null},"w-legswing":{"v":"fcf623c6","loop":null},"w-levator":{"v":"d166c57a","loop":null},"w-lizard":{"v":"7cc08ab2","loop":null},"w-lunge":{"v":"63866dc2","loop":"39ee6efd"},"w-lyingham":{"v":"fe759cfe","loop":null},"w-necktilt":{"v":"22924b2f","loop":null},"w-neckturn":{"v":"5af43185","loop":null},"w-passthrough":{"v":"10bfce31","loop":null},"w-pigeon":{"v":"a89b8f65","loop":null},"w-postwall":{"v":"b8e7a79c","loop":null},"w-pullover":{"v":"15239280","loop":null},"w-puppy":{"v":"058ca523","loop":null},"w-quad":{"v":"1b58687d","loop":"70738fff"},"w-rdlhold":{"v":"06b1b1c0","loop":null},"w-seatedtwist":{"v":"09e1504d","loop":null},"w-sidebend":{"v":"6f735ad6","loop":null},"w-sidequad":{"v":"5a2dfb1a","loop":null},"w-sideswing":{"v":"484561d0","loop":null},"w-skatestance":{"v":"82716257","loop":null},"w-sphinx":{"v":"4fdcb7fe","loop":null},"w-standfold":{"v":"b34553d0","loop":null},"w-suitcase":{"v":"45e68e4c","loop":null},"w-thread":{"v":"d2486033","loop":null},"w-torsotwist":{"v":"890d2d43","loop":null},"w-twist":{"v":"f2c23353","loop":null},"w-walklunge":{"v":"7d9e101b","loop":null},"walklunge":{"v":"cb874fd0","loop":null}};
+const PICS = {"ankledf":{"v":"a8f33b0e","loop":null},"anklerock":{"v":"911c5049","loop":null},"armcircles":{"v":"41b57d91","loop":null},"bandadd":{"v":"7cb4ad47","loop":null},"bandcalf":{"v":"a96d5053","loop":null},"bandchest":{"v":"093ec867","loop":null},"bandcross":{"v":"690bf78d","loop":null},"bandham":{"v":"cc7fd8df","loop":null},"bandlat":{"v":"af0c8982","loop":null},"bandquad":{"v":"407bae69","loop":null},"butterfly":{"v":"ed941436","loop":null},"buttkicks":{"v":"a66d1809","loop":null},"calf":{"v":"0a14d5c0","loop":null},"calfdrop":{"v":"97c87646","loop":null},"catcow":{"v":"0cbc84a2","loop":null},"chairfig4":{"v":"3156b617","loop":null},"chairham":{"v":"79f2fa67","loop":null},"chestclasp":{"v":"1909fb8b","loop":null},"child":{"v":"e30eb409","loop":null},"chintuck":{"v":"a55b103f","loop":null},"cobra":{"v":"3b105fed","loop":null},"cossack":{"v":"711ddeef","loop":null},"couch":{"v":"45f44fa8","loop":null},"crossbody":{"v":"5f496ae8","loop":null},"dbfly":{"v":"10563170","loop":null},"doorway":{"v":"d289783c","loop":null},"downdog":{"v":"3109fa5a","loop":null},"figure4":{"v":"75c67c42","loop":null},"fold":{"v":"9a4d92d0","loop":null},"frog":{"v":"bf22872d","loop":null},"gate":{"v":"dd91927a","loop":null},"goblet":{"v":"47dedac9","loop":null},"groinhold":{"v":"619f54f8","loop":null},"halfsplit":{"v":"f27b0572","loop":null},"happybaby":{"v":"d1ab1006","loop":null},"highknees":{"v":"dab2adce","loop":null},"hiplunge":{"v":"2f89a04e","loop":"3236b681"},"inchworm":{"v":"344036cf","loop":null},"kneeschest":{"v":"b5d6dc38","loop":null},"lateral":{"v":"25f04159","loop":"4dd7ccbd"},"legswing":{"v":"d141c625","loop":null},"levator":{"v":"8760091f","loop":null},"lizard":{"v":"8d0d0fd1","loop":null},"lunge":{"v":"25293428","loop":"5fb29044"},"lyingham":{"v":"1cb729bc","loop":null},"necktilt":{"v":"6dc8f687","loop":null},"neckturn":{"v":"50a8b26d","loop":null},"passthrough":{"v":"ed8b9ed1","loop":null},"pigeon":{"v":"b20192ee","loop":null},"postwall":{"v":"ad875854","loop":null},"pullover":{"v":"e8820e95","loop":null},"puppy":{"v":"8e5dd34e","loop":null},"quad":{"v":"6250f0f8","loop":"55eefc3f"},"rdlhold":{"v":"147b3bbf","loop":null},"seatedtwist":{"v":"c94f4c98","loop":null},"sidebend":{"v":"610313c9","loop":null},"sidequad":{"v":"c3d587b5","loop":null},"sideswing":{"v":"1ba9e48b","loop":null},"skatestance":{"v":"3e680fa9","loop":null},"sphinx":{"v":"8349a4d2","loop":null},"standfold":{"v":"d3455a11","loop":null},"suitcase":{"v":"faeb34cb","loop":null},"thread":{"v":"04dc8a99","loop":null},"torsotwist":{"v":"81bb2d2f","loop":null},"twist":{"v":"183f0d8f","loop":null},"w-ankledf":{"v":"f0af4e86","loop":null},"w-anklerock":{"v":"bec78cbe","loop":null},"w-armcircles":{"v":"20e1b17d","loop":null},"w-bandadd":{"v":"37af3562","loop":null},"w-bandcalf":{"v":"a7ca095b","loop":null},"w-bandchest":{"v":"b4c47cae","loop":null},"w-bandcross":{"v":"0378abb0","loop":null},"w-bandham":{"v":"69ea0463","loop":null},"w-bandlat":{"v":"32398a04","loop":null},"w-bandquad":{"v":"55222718","loop":null},"w-butterfly":{"v":"3771c93c","loop":null},"w-buttkicks":{"v":"002ca8e3","loop":null},"w-calf":{"v":"bf30e4cb","loop":null},"w-calfdrop":{"v":"f9c8a021","loop":null},"w-catcow":{"v":"0d9bf87a","loop":null},"w-chairfig4":{"v":"e9703627","loop":null},"w-chairham":{"v":"600c5e2c","loop":null},"w-chestclasp":{"v":"4af09d9a","loop":null},"w-child":{"v":"855e0673","loop":null},"w-chintuck":{"v":"8f234c93","loop":null},"w-cobra":{"v":"7be58832","loop":null},"w-cossack":{"v":"beada11e","loop":null},"w-couch":{"v":"6c2f0b9c","loop":null},"w-crossbody":{"v":"d6de1afc","loop":null},"w-dbfly":{"v":"ac888e12","loop":null},"w-doorway":{"v":"99234351","loop":null},"w-downdog":{"v":"1d1f8be1","loop":null},"w-figure4":{"v":"afebc674","loop":null},"w-fold":{"v":"656f481f","loop":null},"w-frog":{"v":"f451a50e","loop":null},"w-gate":{"v":"549ddd89","loop":null},"w-goblet":{"v":"537b4583","loop":null},"w-groinhold":{"v":"9df46b9d","loop":null},"w-halfsplit":{"v":"20662c61","loop":null},"w-happybaby":{"v":"0658ab32","loop":null},"w-highknees":{"v":"bdc00bbb","loop":null},"w-hiplunge":{"v":"c917d115","loop":null},"w-inchworm":{"v":"577c28df","loop":null},"w-kneeschest":{"v":"743a6dfa","loop":null},"w-lateral":{"v":"3cb2a7d3","loop":null},"w-legswing":{"v":"fcf623c6","loop":null},"w-levator":{"v":"d166c57a","loop":null},"w-lizard":{"v":"7cc08ab2","loop":null},"w-lunge":{"v":"63866dc2","loop":"39ee6efd"},"w-lyingham":{"v":"fe759cfe","loop":null},"w-necktilt":{"v":"22924b2f","loop":null},"w-neckturn":{"v":"5af43185","loop":null},"w-passthrough":{"v":"10bfce31","loop":null},"w-pigeon":{"v":"a89b8f65","loop":null},"w-postwall":{"v":"b8e7a79c","loop":null},"w-pullover":{"v":"15239280","loop":null},"w-puppy":{"v":"058ca523","loop":null},"w-quad":{"v":"1b58687d","loop":"70738fff"},"w-rdlhold":{"v":"06b1b1c0","loop":null},"w-seatedtwist":{"v":"09e1504d","loop":null},"w-sidebend":{"v":"6f735ad6","loop":null},"w-sidequad":{"v":"5a2dfb1a","loop":null},"w-sideswing":{"v":"484561d0","loop":null},"w-skatestance":{"v":"82716257","loop":null},"w-sphinx":{"v":"4fdcb7fe","loop":null},"w-standfold":{"v":"b34553d0","loop":null},"w-suitcase":{"v":"45e68e4c","loop":null},"w-thread":{"v":"d2486033","loop":null},"w-torsotwist":{"v":"890d2d43","loop":null},"w-twist":{"v":"f2c23353","loop":null},"w-walklunge":{"v":"7d9e101b","loop":null},"walklunge":{"v":"cb874fd0","loop":null}};
 const PIC_W = [192, 640, 960];
 let PIC_BASE = 'figures/';
 
